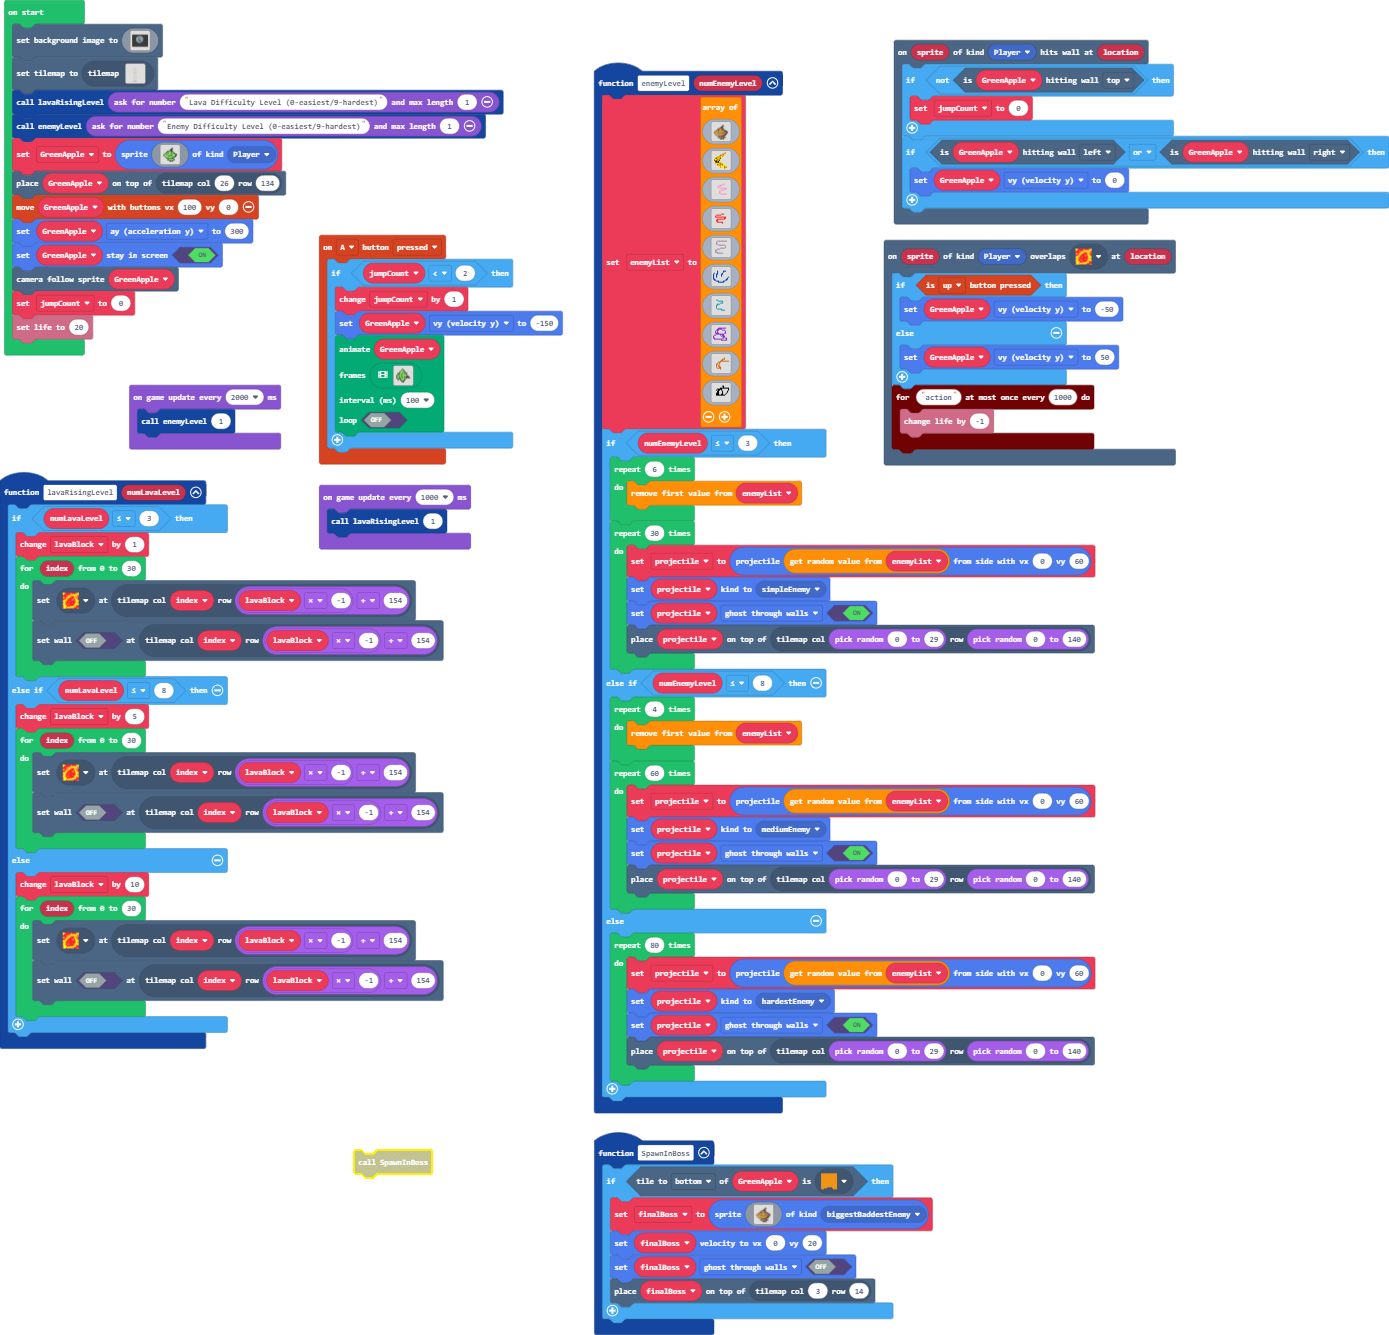
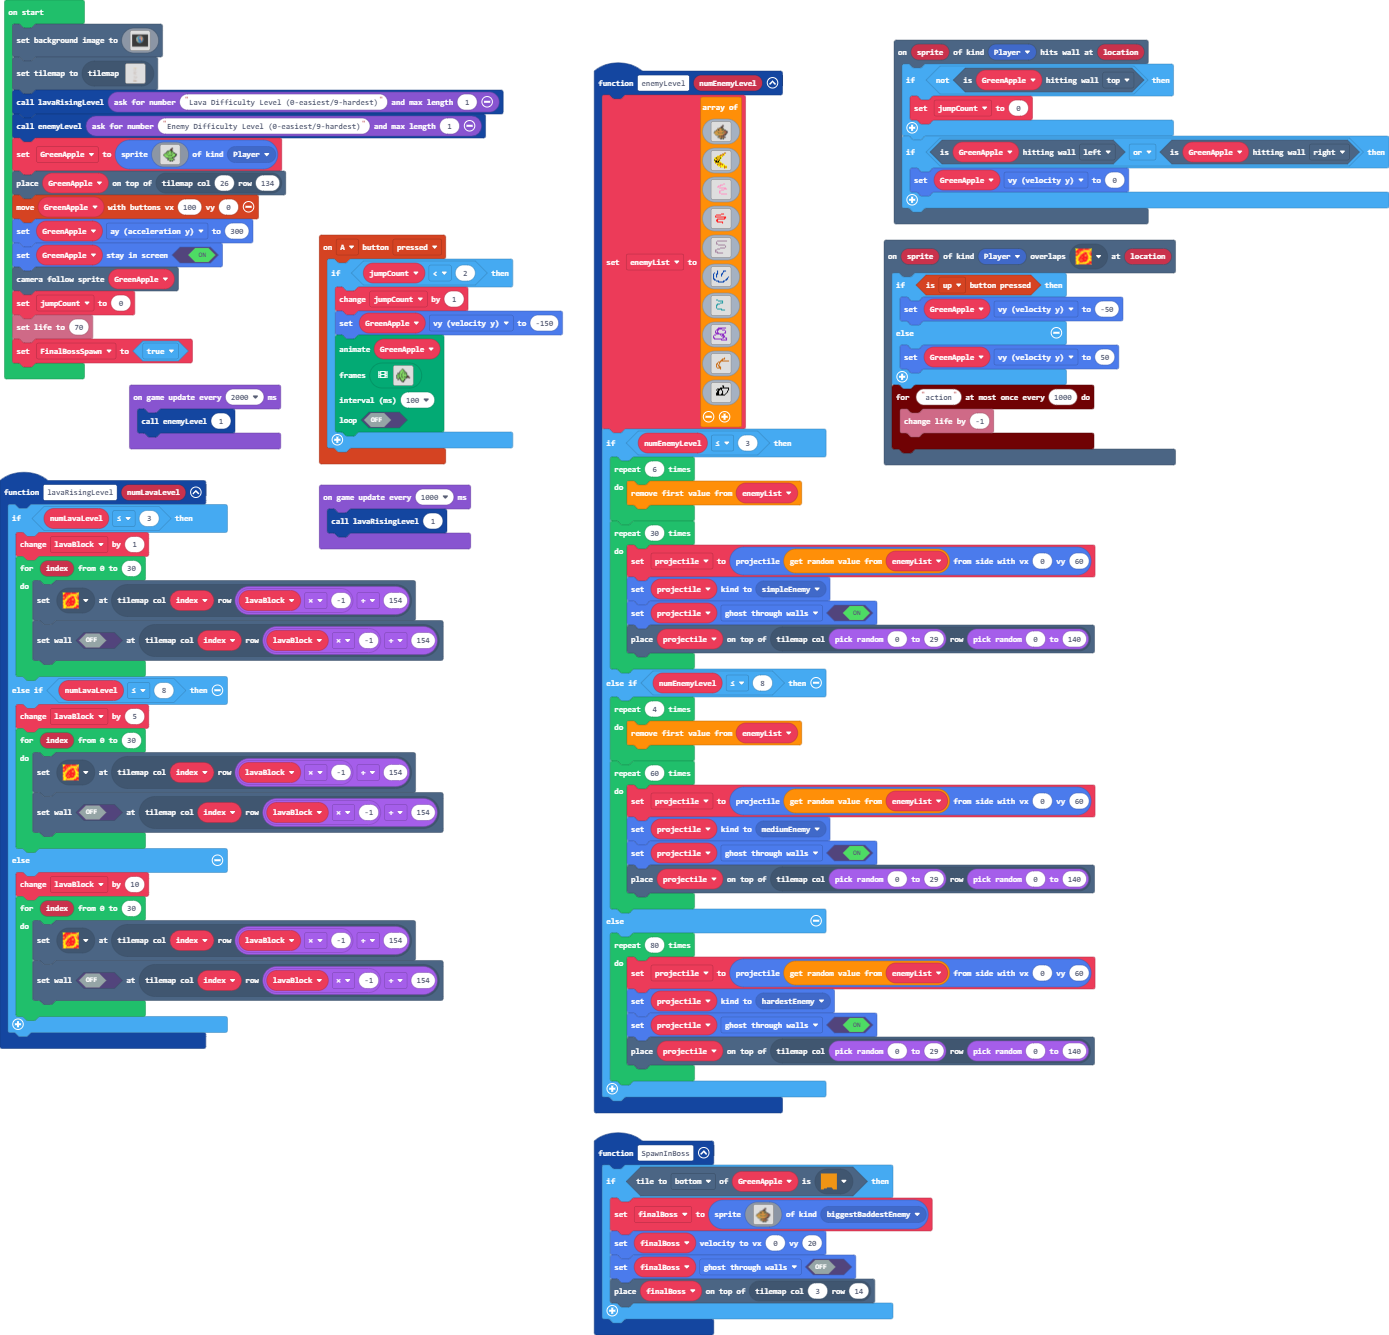
Update main.blocks, main.ts

Changed region(s): [[0.0, 0.2457, 0.1548, 0.3071], [0.2477, 0.8599, 0.3096, 0.8906]]

diff --git a/main.ts b/main.ts
@@ -469,7 +469,8 @@ GreenApple.ay = 300
 GreenApple.setStayInScreen(true)
 scene.cameraFollowSprite(GreenApple)
 jumpCount = 0
-info.setLife(20)
+info.setLife(70)
+let FinalBossSpawn = true
 game.onUpdateInterval(2000, function () {
     enemyLevel(1)
 })
